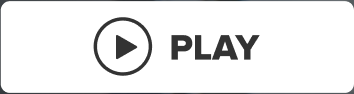
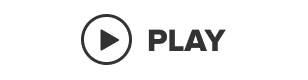
update play-content-button

diff --git a/src/main.scss b/src/main.scss
@@ -103,8 +103,8 @@ $contentM: 160px;
 
   .play-content-button {
     margin-top: 20px;
-    width: 354px;
-    height: 94px;
+    width: 308px;
+    height: 80px;
     background-image: url("./assets/play-content-button.png");
     background-size: cover;
     background-color: transparent;
